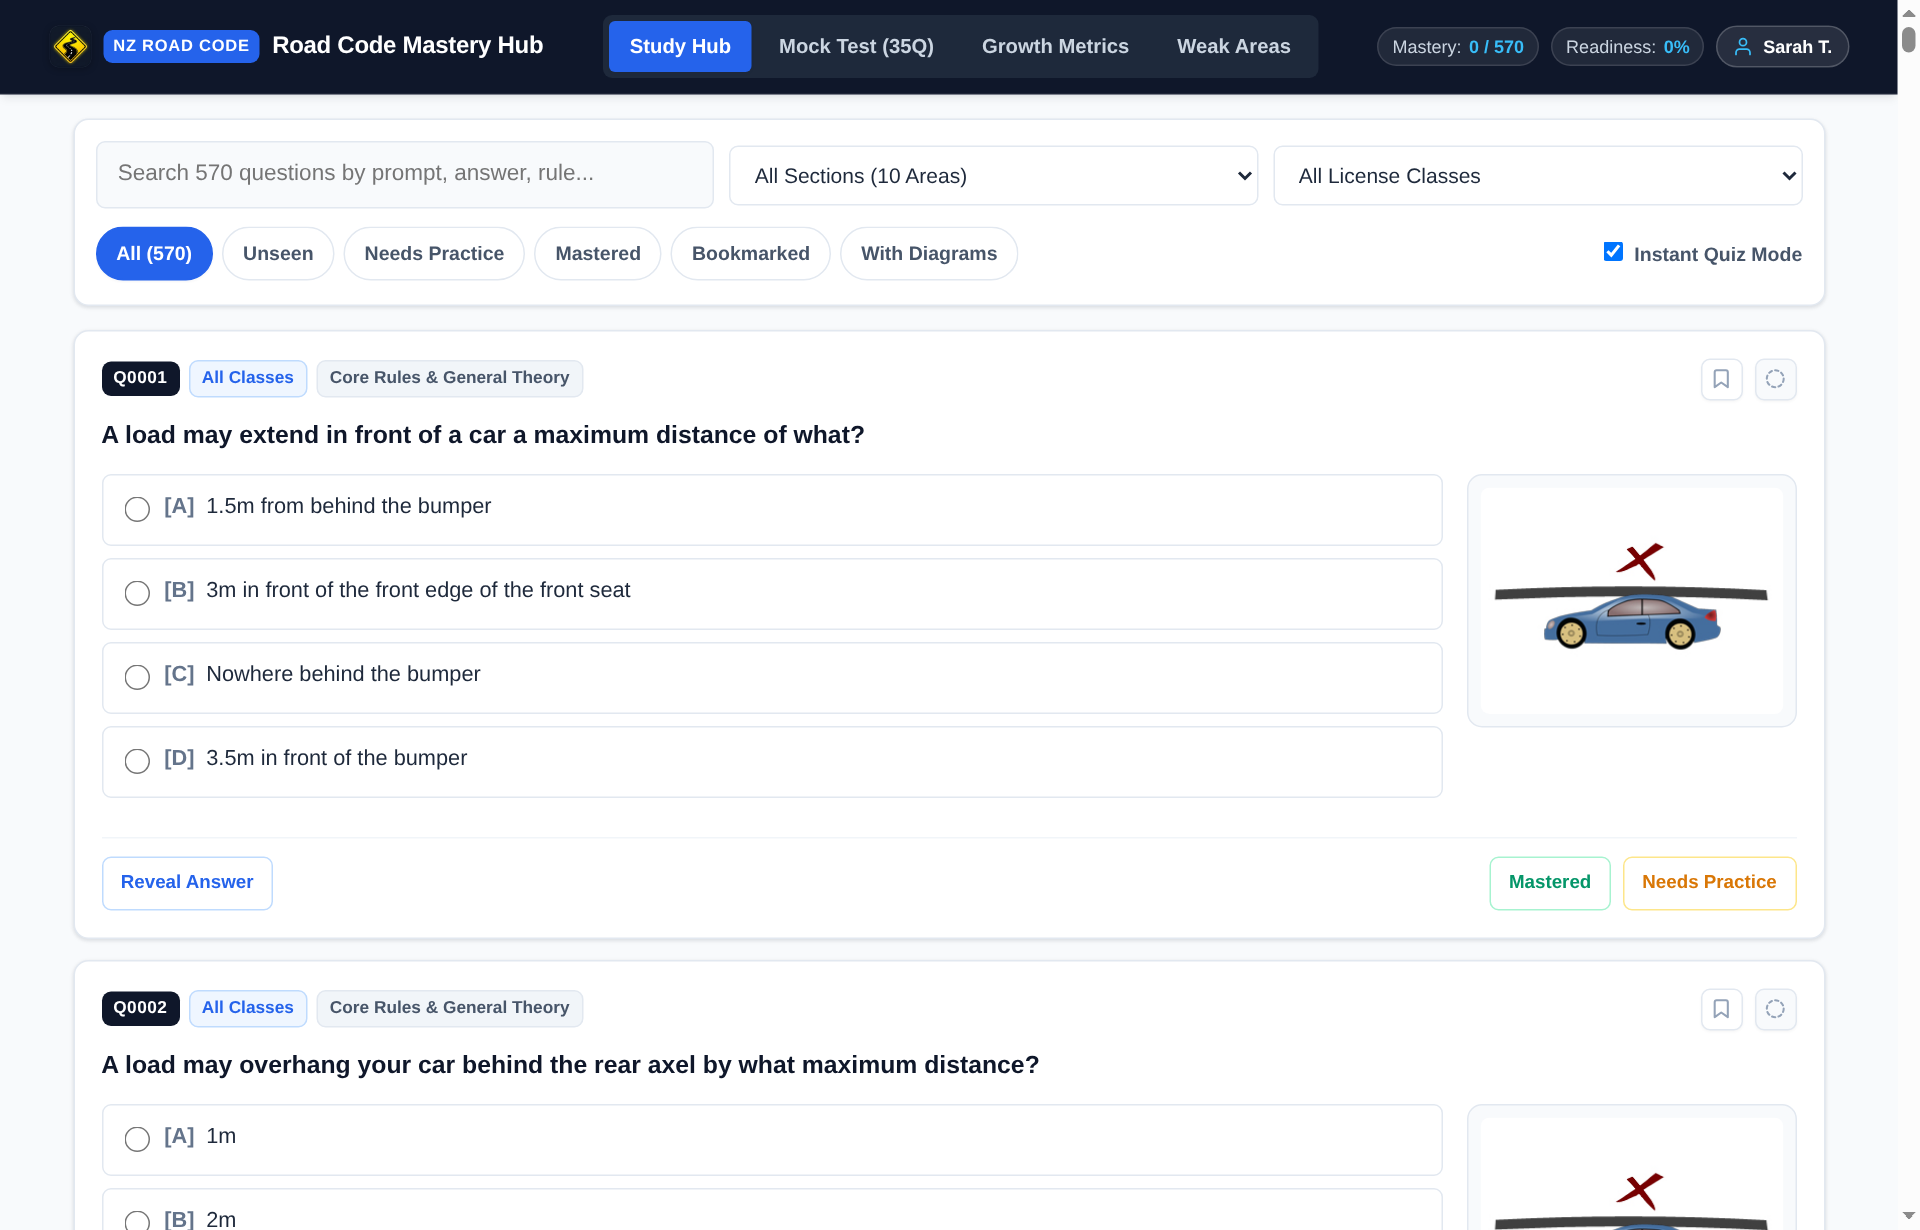
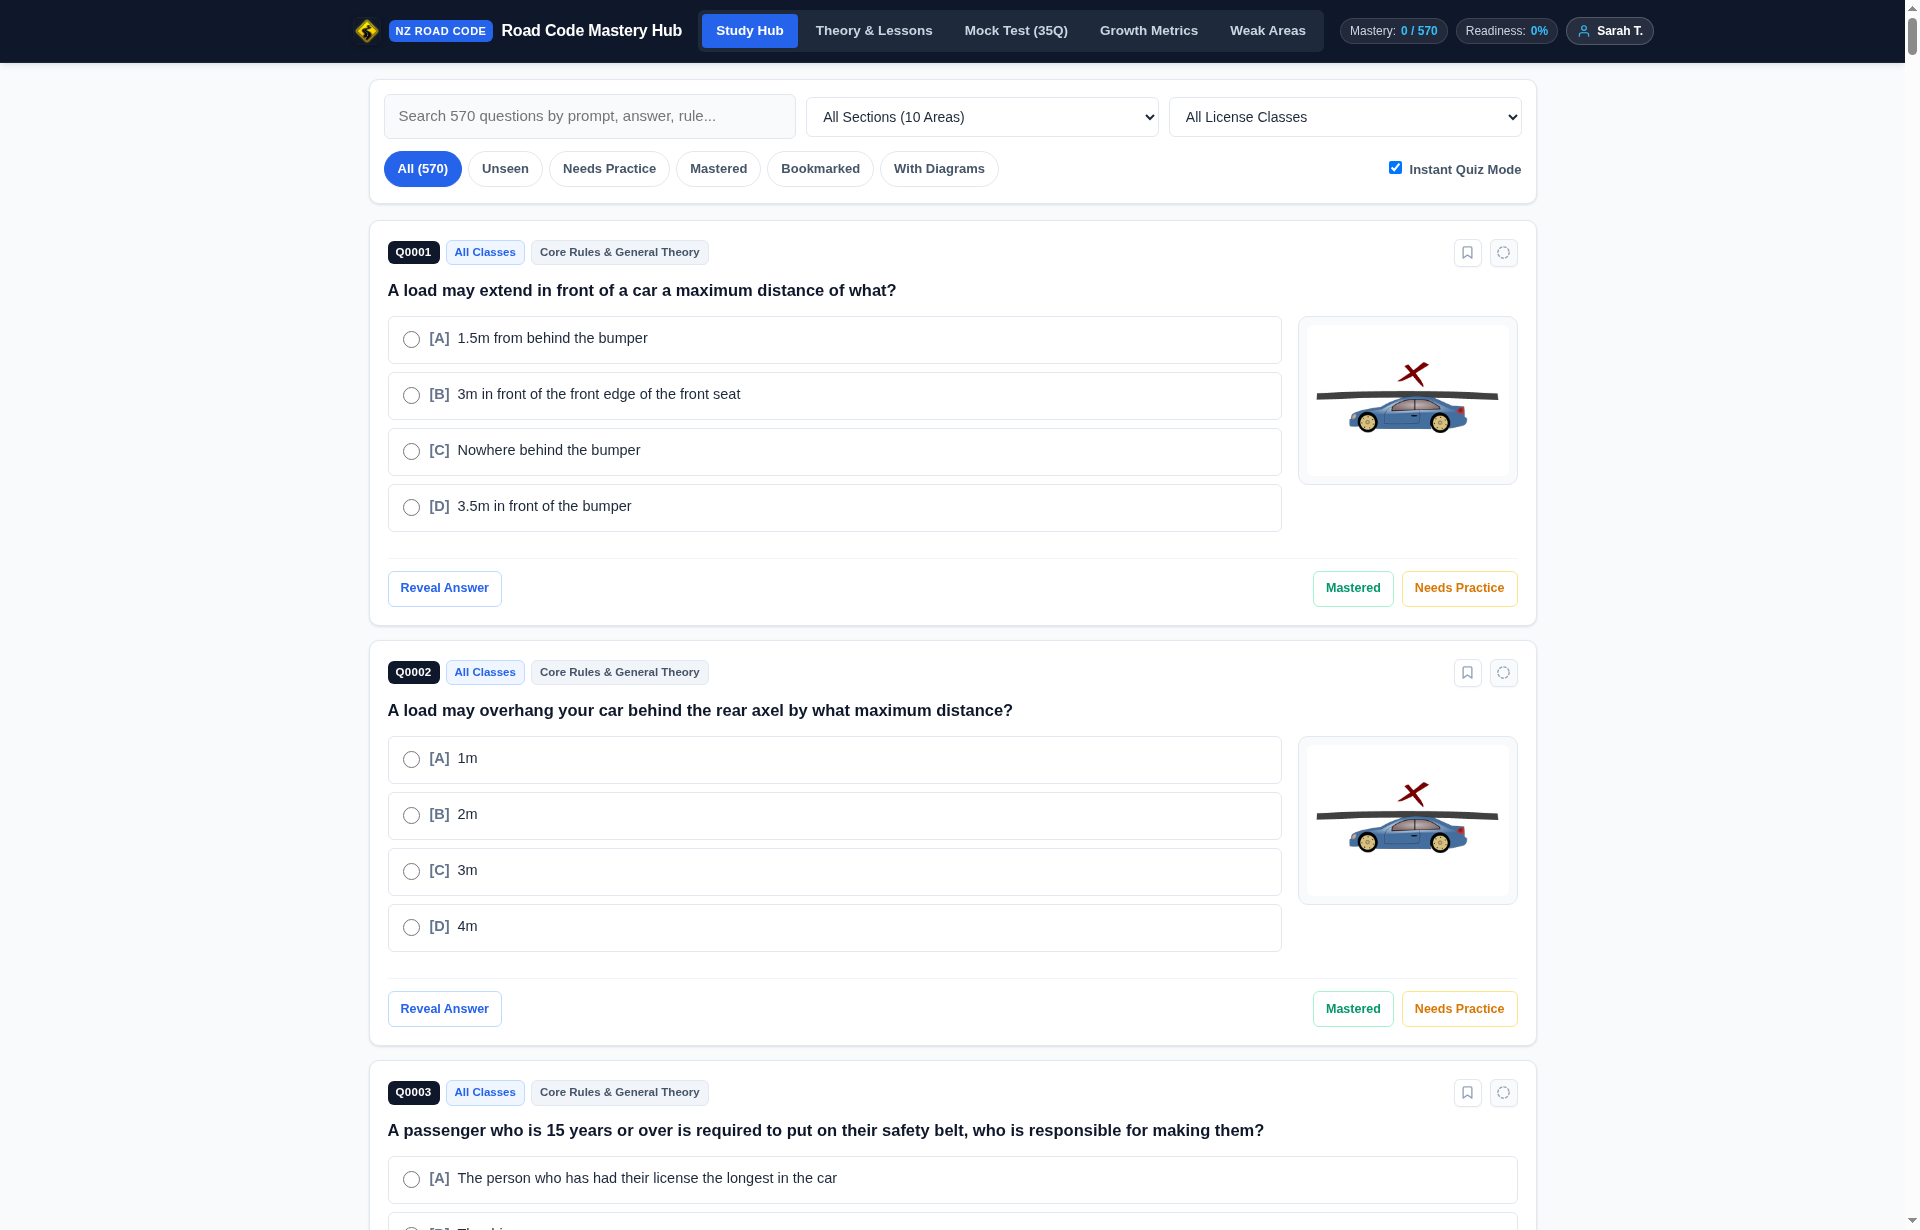
docs: Update visual showcase mockups with official NZTA theory handbook and Drive Go video lessons

diff --git a/README.md b/README.md
@@ -28,14 +28,27 @@ High-density browsing at **100 questions per page** with intuitive circular radi
 
 ---
 
-### 2. Instant Quiz Mode & Answer Feedback
+### 2. Official NZTA Theory Handbook & Drive Go Video Lessons
+Dedicated interactive handbook integrating the official New Zealand Road Code across 8 structured chapters alongside all 63 video lessons from the official Waka Kotahi NZTA / ACC Drive Go program.
+
+| Official Theory Handbook Reader | Drive Go Video Lessons Gallery |
+| :---: | :---: |
+| ![Theory Handbook Reader](docs/screenshots/11_theory_handbook_desktop.png) | ![Drive Go Video Lessons](docs/screenshots/12_drive_go_videos_desktop.png) |
+
+| Responsive Video Modal Player | Mobile Theory & Video View |
+| :---: | :---: |
+| ![Drive Go Video Modal](docs/screenshots/13_drive_go_video_modal.png) | ![Mobile Theory View](docs/screenshots/14_theory_mobile_view.png) |
+
+---
+
+### 3. Instant Quiz Mode & Answer Feedback
 Test recall on the fly with immediate emerald/crimson answer verification, circular selection bullets, and official rule explanations.
 
 ![Instant Quiz Mode Feedback](docs/screenshots/04_instant_quiz_desktop.png)
 
 ---
 
-### 3. Official 35-Question Mock Exam Simulator
+### 4. Official 35-Question Mock Exam Simulator
 Strict 30-minute countdown timer, official 32/35 (91.4%) pass mark, question flagging, and an interactive 35-item navigation drawer.
 
 | Desktop Exam in Progress | Mobile Exam View |
@@ -44,7 +57,7 @@ Strict 30-minute countdown timer, official 32/35 (91.4%) pass mark, question fla
 
 ---
 
-### 4. Growth Metrics & Weak Areas Diagnostic
+### 5. Growth Metrics & Weak Areas Diagnostic
 Data-driven readiness scoring, score trajectories rendered via Chart.js, and automated isolation of tricky questions.
 
 | Historical Growth Analytics | Targeted Weak Areas Practice |
@@ -53,7 +66,7 @@ Data-driven readiness scoring, score trajectories rendered via Chart.js, and aut
 
 ---
 
-### 5. Multi-User Authentication Gate
+### 6. Multi-User Authentication Gate
 Mandatory sign-in gate featuring learner registration (with email support) and quick-switch profile chips for shared devices.
 
 | Desktop Authentication Gate | Mobile Login Gate |
@@ -75,6 +88,13 @@ Mandatory sign-in gate featuring learner registration (with email support) and q
   - *Status Icons*: Clean SVG icons for Mastered (green checkmark), Needs Practice (amber refresh), and Unseen (dashed circle).
   - *Clean Action Bar*: One-tap bookmark toggle without redundant labels.
   - *Diagram Zoom*: Modal zoom dialogs for high-resolution road diagrams.
+
+### Official NZTA Theory Handbook & Drive Go Video Lessons
+- **8 Comprehensive Theory Chapters**: Structured study covering Licence Stages & Demerits, Speed Limits, Give-Way & Intersections, Road Signs & Markings, Stopping & Towing, Vehicle Standards & WoF, Alcohol & Emergencies, and Motorcycle/Heavy Vehicle specifics.
+- **63 Waka Kotahi Drive Go Video Lessons**: Complete video catalogue across all 8 official playlists (*Starting out*, *Beginner*, *Intermediate*, *Experienced*, *Test Preparation*, *Common Mistakes*, *Driver Behaviour*, *Coaching Tips*).
+- **Responsive In-App Video Modal Player**: Distraction-free embedded player (`youtube-nocookie.com`) with playlist badges, instant category filtering, and direct links to YouTube.
+- **Direct Practice Linking**: Jump directly from any theory chapter into practice questions filtered for that topic.
+- **Category 11 Dedicated Filter**: Direct Study Hub access to all 42 official NZTA Category 11 Theory questions.
 
 ### Official 35-Question Mock Exam Simulator
 - **Authentic Proportions**: 35 questions drawn randomly from Core Rules, Intersections, Signs, Parking, and Emergencies matching official NZTA quotas.
@@ -145,6 +165,8 @@ nz-dirving/
 |           `-- chart.min.js     # Chart.js library for performance graphs
 `-- export/                      # Datasets, extraction scripts, and print materials
     |-- README.md                # Dataset documentation
+    |-- nzta_theory_guide.json   # 8 comprehensive official NZTA theory chapters
+    |-- drive_go_videos.json     # 63 official Waka Kotahi Drive Go video lessons
     |-- master_unique_questions.json  # 570 canonical deduplicated questions (JSON)
     |-- master_1279_questions.json    # 1,279 raw extracted questions
     |-- nz_road_code_master.html      # Print-ready HTML with embedded CSS Paged Media
@@ -166,6 +188,12 @@ All protected endpoints require an `Authorization: Bearer <session_token>` heade
 | `POST` | `/api/auth/logout` | Terminate session and invalidate session token | Yes |
 | `GET` | `/api/auth/me` | Fetch authenticated user summary, mastery count, and readiness | Yes |
 | `GET` | `/api/auth/users` | List public profile summaries for device quick switcher | No |
+
+### Official Theory & Video Endpoints
+| Method | Endpoint | Description | Auth Required |
+| :--- | :--- | :--- | :---: |
+| `GET` | `/api/theory/guide` | Retrieve 8 comprehensive NZ Road Code theory study chapters | No |
+| `GET` | `/api/theory/videos` | Query 63 official Drive Go video lessons with category filter | No |
 
 ### Study & Question Endpoints
 | Method | Endpoint | Description | Auth Required |

diff --git a/webapp/README.md b/webapp/README.md
@@ -38,7 +38,14 @@ The application provides an interactive, data-driven study experience powered by
   - **Bookmark Action**: One-tap toggle icon with accessible tooltip.
   - **Diagram Viewer**: High-resolution diagrams with tap-to-zoom modal dialogs (clean display without redundant captions).
 
-### 2. Official 35-Question Mock Exam Engine
+### 2. Official NZTA Theory Handbook & Drive Go Video Lessons
+- **8 Comprehensive Theory Chapters**: Structured study covering Licence Stages & Demerits, Speed Limits, Give-Way & Intersections, Road Signs & Markings, Stopping & Towing, Vehicle Standards & WoF, Alcohol & Emergencies, and Motorcycle/Heavy Vehicle specifics.
+- **63 Waka Kotahi Drive Go Video Lessons**: Complete video catalogue across all 8 official playlists (*Starting out*, *Beginner*, *Intermediate*, *Experienced*, *Test Preparation*, *Common Mistakes*, *Driver Behaviour*, *Coaching Tips*).
+- **Responsive In-App Video Modal Player**: Distraction-free embedded player (`youtube-nocookie.com`) with playlist badges, instant category filtering, and direct links to YouTube.
+- **Direct Practice Linking**: Jump directly from any theory chapter into practice questions filtered for that topic.
+- **Category 11 Dedicated Filter**: Direct Study Hub access to all 42 official NZTA Category 11 Theory questions.
+
+### 3. Official 35-Question Mock Exam Engine
 - **Balanced Question Distribution**: Follows official NZTA proportions across core rules, intersections, parking, emergencies, signs, and road conditions.
 - **Official Exam Rules**:
   - 35 questions with a 30-minute countdown timer.
@@ -49,15 +56,15 @@ The application provides an interactive, data-driven study experience powered by
   - Detailed breakdown of score per section.
   - Full item-by-item question review displaying correct vs. selected answers with official rule explanations.
 
-### 3. Weak Area Diagnostic Drill
+### 4. Weak Area Diagnostic Drill
 - Isolates all questions answered incorrectly across study sessions or mock tests.
 - Dynamically updates as questions are practiced and mastered.
 
-### 4. Growth & Readiness Metrics
+### 5. Growth & Readiness Metrics
 - **Readiness Score**: Calculates percentage preparedness for the actual NZTA exam based on unique questions mastered.
 - **Historical Performance Chart**: Interactive Chart.js timeline showing exam score trajectories, pass/fail thresholds, and average exam duration.
 
-### 5. Multi-User Authentication & Profile Isolation
+### 6. Multi-User Authentication & Profile Isolation
 - **Mandatory Authentication**: Full-screen authentication gate protecting study data; each learner must register and log in.
 - **User Registration**: Supports username, email address, display name, and secure password.
 - **Flexible Sign In**: Users can log in using either their **Username** or **Email Address**.
